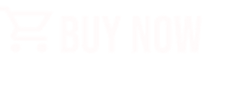
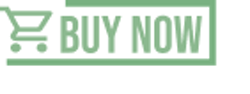
last one

diff --git a/css/styles.css b/css/styles.css
@@ -25,7 +25,16 @@ ul {
 body {
     background-color: rgba(235, 235, 224, 1); 
     color:black;
+    margin: 0;
+    display: flex;
+    flex-direction: column;
+    min-height: 100vh;
+
 }
+main{
+    flex-grow: 1;
+}
+
 a {
     color: black;
 
@@ -160,12 +169,7 @@ a {
         margin: 10px;
     
       
-        /* vertical-align: bottom; */
-      
-        /* by using position relative on the parent
-        photo element, out overlay will be positioned
-        in relation to it 
-        position: relative; */
+        
       
         justify-content: center;
       }
@@ -229,16 +233,24 @@ footer {
 /*about us*/
 .container-1{
     display: flex;
+    flex-direction: row;
     padding: 200px 200px;
+    
 }
 .about-text{
+    display: flex;
     position:relative;
+    justify-content: center;
         bottom: 7%;
         right: 2%;
 }
-
+.about-image{
+    display: flex;
+   
+}
 .about-us{
-    position: absolute;
+    display: flex;
+    position:absolute;
         top: 27%;
         left: 40%;
 }
@@ -250,21 +262,22 @@ footer {
     flex-direction: column;
     padding: 200px 200px ;
     }
+    .movielob{
+        width: 920px;
+    height: 470px;
+    }
     .movie-container{
         position:relative;
     
         
     }
     .lobster-content1 {
+        position: fixed;
         position: absolute;
         top: 1%;
         left: 2%;
     }
-    .lobster-content2 {
-        position: absolute;
-        top: 2%;
-        left: 12%;
-    }
+    
     .lobster-content3 {
         position: absolute;
        
@@ -272,9 +285,8 @@ footer {
         left: 2%;
     }
     .checkout-icon {
-        position: absolute;
-        bottom: 1%;
-        right: 10%;
+        position: flex;
+
     }
 .container-info {
     
@@ -288,6 +300,7 @@ footer {
 .container-2{
     display: flex;
     padding: 200px 200px ;
+   
 }
 .box-3{
     flex: 1;
@@ -332,24 +345,17 @@ footer {
 /* --- FOOTER --- */
 
 .footer {
-    /* background-color: #f2f2f2;  */ 
+    
     background-image: url(/images/footer.png);
-    /*
-    background-position: center center;
-    background-repeat: no-repeat;
-    background-size: cover;
-*/
+    
     background-size: 100% 100%;
-    padding: 20px;
+    padding: 1px;
     text-align: left;
     display: flex;
     align-items: center;
     justify-content: space-between;
 
-    position: absolute;
-    bottom: 0;
-    left: 0;
-    right: 0;
+    
     
   }
 
@@ -363,9 +369,6 @@ footer {
     display: inline-block;
     width: 30px;
     height: 30px;
-    /* background-color: #333; 
-    color: #000; 
-    border-radius: 50%;*/
     text-align: center;
     line-height: 30px;
     

diff --git a/about.html b/about.html
@@ -17,7 +17,7 @@
         <ul>
             <li><a href="index.html" class="active">Home</a></li>
             <li><a href="search.html" class="active">Search</a></li>
-            <li><a href="selection.html" class="active">Our Selection</a></li>
+            <li><a href="lobster.html" class="active">Our Selection</a></li>
             <li><a href="about.html" class="active">About</a></li>
             <li><a href="contact.html" class="active">Contact</a></li>
         </ul>
@@ -25,8 +25,7 @@
 </header>
 
 
-    <div class="container-1">
-    <div> 
+  <div class="container-1"> 
         <p class="about-text">
             Square Eyes is a global movie service where you can discover, watch, and share great movies.
             Our curators hand-pick the most beautiful, interesting, and incredible films from around the world
@@ -34,37 +33,23 @@
             what’s new in cinema culture with our social media, and let you share your passion for film by connecting
             with others who love cinema just as much as you do.
         </p>
-    </div>
-    <div> 
+  
         <h1 class="about-us">ABOUT US</h1>
-        <img src="./images/about.png" class="about-image" width="678" height="420" alt="Contact Image">
+        <img src="./images/about.png" class="about-image" alt="Contact Image">
     </div>
-</div>
 
-<!--
-    <footer>
-        <div class="footer-content">
-            <h3 class="limited">&copy; SQUARE EYES LIMITED </h3>
-            <img src="./images/socials.png" class="socials" alt="Social Media Icons">
-       
-    
+<footer class="footer">
+    <div class="footer-text">
+      <h3>2023 SQUARE EYES LIMITED</h3>
     </div>
-    </footer>
--->
-
-
-    <footer class="footer">
-        <div class="footer-text">
-          <h3>2023 SQUARE EYES LIMITED</h3>
-        </div>
-        <div class="social-icons">
-          <a href="#"><img src="./images/ri_facebook-box-fill.svg" alt="Instagram"></a>
-          <a href="#"><img src="./images/ri_instagram-fill.svg" alt="Instagram"></a>
-          <a href="#"><img src="./images/ri_twitter-fill.svg" alt="Instagram"></a>
-          <a href="#"><img src="./images/ri_youtube-fill.svg" alt="Instagram"></a>
-        </div>
-        </div>
-      </footer>
+    <div class="social-icons">
+      <a href="#"><img src="./images/ri_facebook-box-fill.svg" alt="Instagram"></a>
+      <a href="#"><img src="./images/ri_instagram-fill.svg" alt="Instagram"></a>
+      <a href="#"><img src="./images/ri_twitter-fill.svg" alt="Instagram"></a>
+      <a href="#"><img src="./images/ri_youtube-fill.svg" alt="Instagram"></a>
+    </div>
+    </div>
+  </footer>
 
 </body>
 </html>

diff --git a/contact.html b/contact.html
@@ -17,7 +17,7 @@
         <ul>
             <li><a href="index.html" class="active">Home</a></li>
             <li><a href="search.html" class="active">Search</a></li>
-            <li><a href="selection.html" class="active">Our Selection</a></li>
+            <li><a href="lobster.html" class="active">Our Selection</a></li>
             <li><a href="about.html" class="active">About</a></li>
             <li><a href="contact.html" class="active">Contact</a></li>
         </ul>
@@ -54,17 +54,17 @@
    
     </footer>
 -->
-    <footer class="footer">
-        <div class="footer-text">
-          <h3>2023 SQUARE EYES LIMITED</h3>
-        </div>
-        <div class="social-icons">
-          <a href="#"><img src="./images/ri_facebook-box-fill.svg" alt="Instagram"></a>
-          <a href="#"><img src="./images/ri_instagram-fill.svg" alt="Instagram"></a>
-          <a href="#"><img src="./images/ri_twitter-fill.svg" alt="Instagram"></a>
-          <a href="#"><img src="./images/ri_youtube-fill.svg" alt="Instagram"></a>
-        </div>
-        </div>
-      </footer>
+<footer class="footer">
+    <div class="footer-text">
+      <h3>2023 SQUARE EYES LIMITED</h3>
+    </div>
+    <div class="social-icons">
+      <a href="#"><img src="./images/ri_facebook-box-fill.svg" alt="Instagram"></a>
+      <a href="#"><img src="./images/ri_instagram-fill.svg" alt="Instagram"></a>
+      <a href="#"><img src="./images/ri_twitter-fill.svg" alt="Instagram"></a>
+      <a href="#"><img src="./images/ri_youtube-fill.svg" alt="Instagram"></a>
+    </div>
+    </div>
+  </footer>
 </body>
 </html>

diff --git a/lobster.html b/lobster.html
@@ -17,7 +17,7 @@
         <ul>
             <li><a href="index.html" class="active">Home</a></li>
             <li><a href="search.html" class="active">Search</a></li>
-            <li><a href="selection.html" class="active">Our Selection</a></li>
+            <li><a href="lobster.html" class="active">Our Selection</a></li>
             <li><a href="about.html" class="active">About</a></li>
             <li><a href="contact.html" class="active">Contact</a></li>
         </ul>
@@ -26,11 +26,12 @@
 </header>
 <div class="container-6">
     <div class="movie-container">
-        <img src="./images/lobstermovie.png" width="920" height="470" class="movielob" alt="Movie Poster">
+      
+        <img class="movielob" src="./images/lobstermovie.png"   alt="Movie Poster">
+   
         <h2 class="lobster-content1">THE LOBSTER</h2>
-        <h4 class="lobster-content2">2015</h4>
         <h3 class="lobster-content3">DRAMA/THRILLER</h3>
-    <a class="checkout-icon" href="checkout.html"><img src="./images/buynow.png" alt="check-out"  width="140" height="50" ></a>
+    <a class="checkout-icon" href="checkout.html"><img src="./images/buynow.png" alt="check-out"></a>
 </div>
   
    

diff --git a/selection.html b/selection.html
@@ -15,11 +15,11 @@
     </a>
     <nav>
         <ul>
-            <li><a href="index.html" class="active">Home</a></li>
-            <li><a href="search.html" class="active">Search</a></li>
-            <li><a href="selection.html" class="active">Our Selection</a></li>
-            <li><a href="about.html" class="active">About</a></li>
-            <li><a href="contact.html" class="active">Contact</a></li>
+          <li><a href="index.html" class="active">Home</a></li>
+          <li><a href="search.html" class="active">Search</a></li>
+          <li><a href="lobster.html" class="active">Our Selection</a></li>
+          <li><a href="about.html" class="active">About</a></li>
+          <li><a href="contact.html" class="active">Contact</a></li>
         </ul>
  
     </nav>

diff --git a/index.html b/index.html
@@ -17,10 +17,10 @@
         <nav>
             <ul>
                 <li><a href="index.html" class="active">Home</a></li>
-                <li><a href="search.html" class="active">Search</a></li>
-                <li><a href="selection.html" class="active">Our Selection</a></li>
-                <li><a href="about.html" class="active">About</a></li>
-                <li><a href="contact.html" class="active">Contact</a></li>
+            <li><a href="search.html" class="active">Search</a></li>
+            <li><a href="lobster.html" class="active">Our Selection</a></li>
+            <li><a href="about.html" class="active">About</a></li>
+            <li><a href="contact.html" class="active">Contact</a></li>
             </ul>
         </nav>
     </header>

diff --git a/success.html b/success.html
@@ -17,7 +17,7 @@
         <ul>
             <li><a href="index.html" class="active">Home</a></li>
             <li><a href="search.html" class="active">Search</a></li>
-            <li><a href="selection.html" class="active">Our Selection</a></li>
+            <li><a href="lobster.html" class="active">Our Selection</a></li>
             <li><a href="about.html" class="active">About</a></li>
             <li><a href="contact.html" class="active">Contact</a></li>
         </ul>
